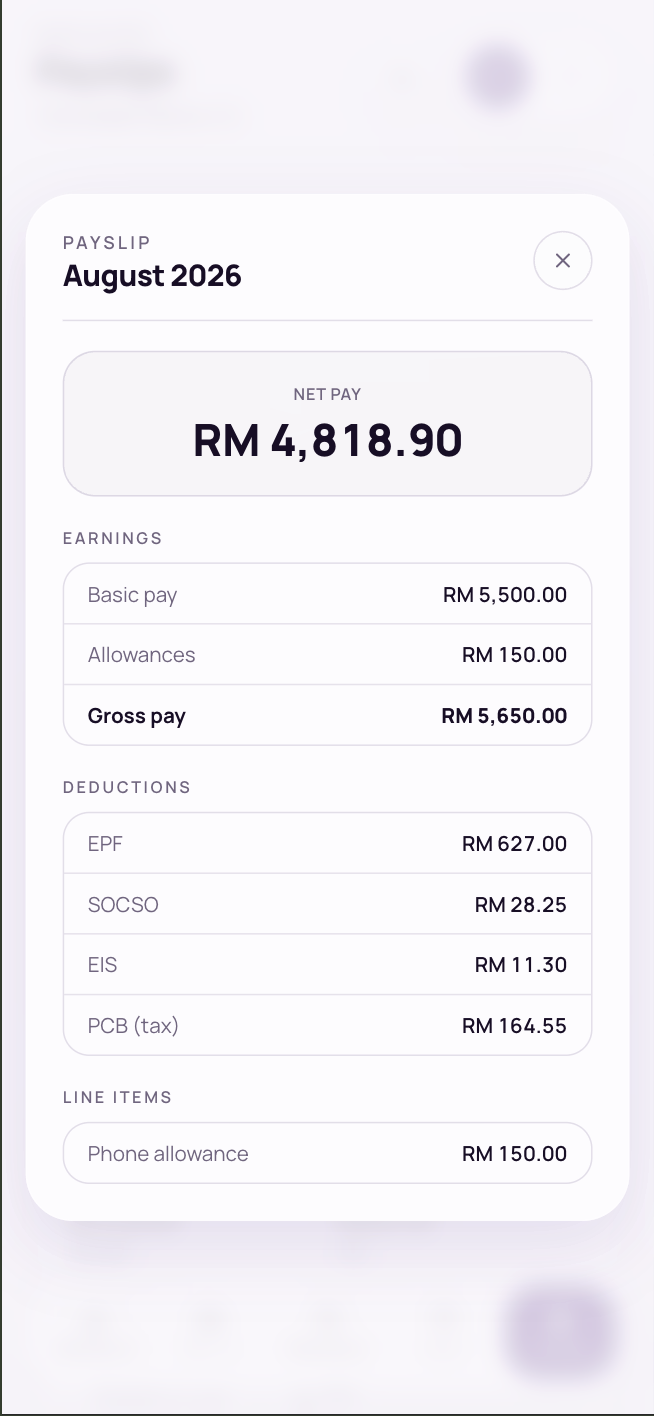
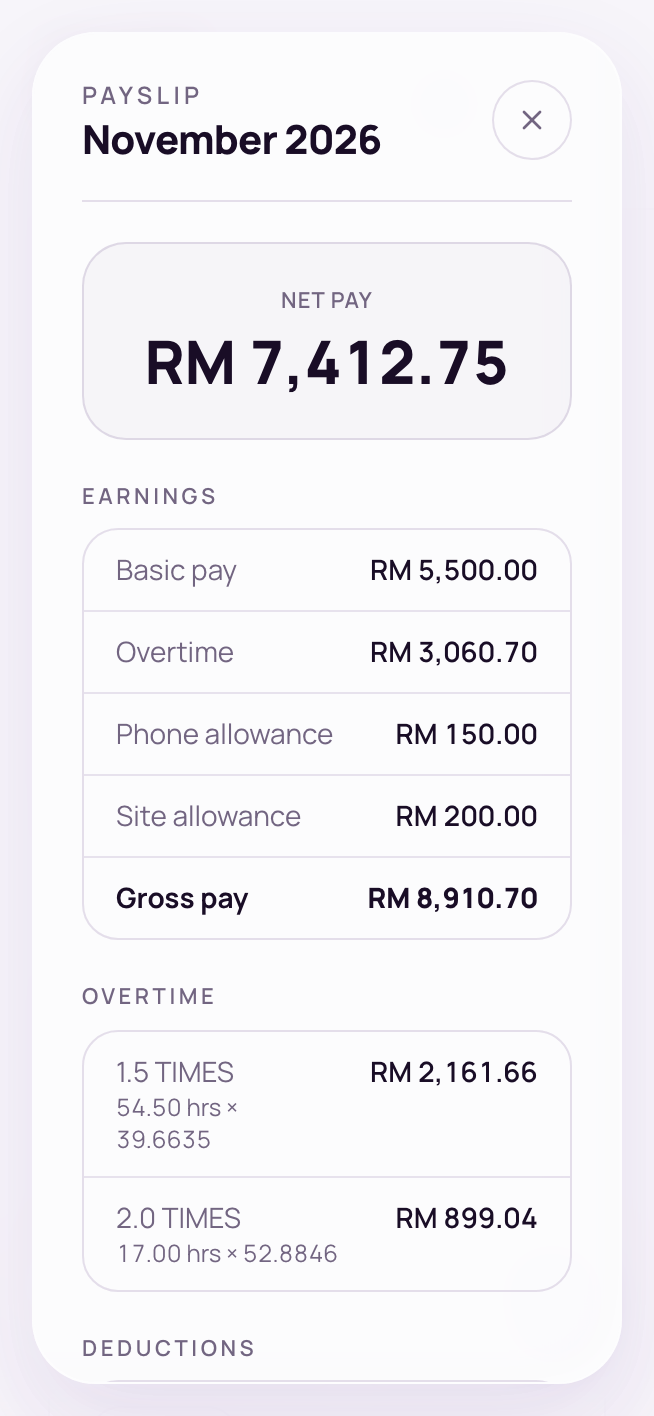
docs: What's new, API docs and user guide for the payslip overtime table
- What's new: overtime table, deductions by name, imported-month totals,
  self-paid TP1 zakat.
- API docs: PayslipDto's overtimeRows, earningLines, deductionLines and
  notInPayLines on run detail and GET /payslips/{id}.
- User guide: payslip breakdown (overtime rows, named deductions, Not paid in
  cash), the Display name on one-off rows; payslip-breakdown shots retaken on
  the local demo data, plus a new deductions shot.
- Bookmarks moved to 6c7e1df.

diff --git a/api-docs/payroll.html b/api-docs/payroll.html
@@ -591,6 +591,10 @@
               <tr><td><code>totalCostToEmployer</code></td><td>decimal</td><td>Gross pay plus the employer EPF, SOCSO and EIS and HRDF, <strong>less any deduction the company keeps</strong> &mdash; the <code>deduct_loan_repayment</code> and <code>deduct_miscellaneous</code> categories (a loan or debt recovered from pay never leaves the company). Deductions passed on to someone else (PCB, CP38, zakat) stay in the cost. PCB the company pays for the employee (<code>pcbBorneByEmployer</code>) is added to it. Imported (YTD) payslips follow the same rule.</td></tr>
               <tr><td><code>statutoryWarnings</code></td><td>string[]</td><td></td></tr>
               <tr><td><code>lineItems</code></td><td>array</td><td><code>{ id, kind, label, amount, category, pcbTaxableAmount, claimId, subjectToEpf, subjectToSocso, subjectToEis, subjectToPcb }</code> each. A line settling unpaid leave from an earlier month has its month and days in the <code>label</code>; see <a href="payroll-runs.html#generate">Generate</a>.</td></tr>
+              <tr><td><code>overtimeRows</code></td><td>object[]</td><td>The payslip's Overtime table, one row per multiplier, ascending: <code>{ "label": string, "multiplier": decimal, "rate": decimal, "hours": decimal, "amount": decimal }</code>. <code>label</code> is display text such as <code>"1.5 TIMES"</code>; <code>rate</code> is the pay for one hour at that multiplier, to <strong>4</strong> decimal places (not 2); built-in and custom types paying the same multiplier are merged. The rows add up to <code>otPay</code> (a sen or two of rounding is put on the largest row). <strong>Empty</strong> when there is no overtime, or the payslip was generated before overtime rates were kept, or it was imported &mdash; fall back to <code>otPay</code> and <code>otCustom</code>.</td></tr>
+              <tr><td><code>earningLines</code></td><td>object[] or null</td><td>The named lines under Earnings after basic pay and overtime: <code>{ "label": string, "amount": decimal }</code>. Reimbursements and cash allowances are positive; deductions that reduce gross (unpaid leave, an advance) are <strong>negative</strong>. Benefits in kind are not here. <code>null</code> when basic pay + overtime + these lines do not add up to <code>grossPay</code> (e.g. an imported payslip) &mdash; show the totals instead.</td></tr>
+              <tr><td><code>deductionLines</code></td><td>object[] or null</td><td>The named non-statutory deductions taken from pay (loan repayment, zakat, CP38, one-off deductions), each <code>{ "label": string, "amount": decimal }</code> with a positive amount. Excludes gross-reducing deductions (in <code>earningLines</code>), cash-neutral ones (in <code>notInPayLines</code>) and Additional PCB (inside the PCB figure). An imported payslip's zakat and CP38 are appended as <code>"Zakat"</code> / <code>"CP38 arrears"</code> lines. <code>null</code> when they do not reconcile to <code>totalDeductions</code>.</td></tr>
+              <tr><td><code>notInPayLines</code></td><td>object[]</td><td>Lines shown on the payslip that are not paid in cash: benefits in kind and cash-neutral deductions such as TP1 reliefs. <code>{ "label": string, "amount": decimal }</code>; empty when none.</td></tr>
             </tbody>
           </table>
         </div>

diff --git a/api-docs/payroll-runs.html b/api-docs/payroll-runs.html
@@ -533,6 +533,10 @@ curl -X PATCH https://&lt;api-host&gt;/payroll/runs/run_123 \
             <tr><td><code>lineItems[].label</code> / <code>.amount</code> / <code>.category</code></td><td>mixed</td><td>A line settling unpaid leave from an earlier month carries its month and days in the <code>label</code> (<code>Unpaid Leave – Sep 2026 (approved late, 2 days)</code>, category <code>deduct_unpaid_leave</code>; or <code>Unpaid Leave refund – Sep 2026 (1 day)</code>, category <code>wages_arrears</code>). See <a href="#generate">Generate</a>.</td></tr>
             <tr><td><code>lineItems[].pcbTaxableAmount</code></td><td>number or null</td><td></td></tr>
             <tr><td><code>lineItems[].claimId</code></td><td>string or null</td><td>Set when the line came from an <a href="#claims">attached claim</a>.</td></tr>
+            <tr><td><code>overtimeRows</code></td><td>object[]</td><td>The payslip's Overtime table, one row per multiplier, ascending: <code>{ "label": string, "multiplier": number, "rate": number, "hours": number, "amount": number }</code>. <code>label</code> is display text such as <code>"1.5 TIMES"</code>; <code>rate</code> is the pay for one hour at that multiplier, to <strong>4</strong> decimal places (not 2); built-in and custom types paying the same multiplier are merged. The rows add up to <code>otPay</code> (a sen or two of rounding is put on the largest row). <strong>Empty</strong> when there is no overtime, or the payslip was generated before overtime rates were kept, or it was imported &mdash; fall back to <code>otPay</code> and <code>otCustom</code>.</td></tr>
+            <tr><td><code>earningLines</code></td><td>object[] or null</td><td>The named lines under Earnings after basic pay and overtime: <code>{ "label": string, "amount": number }</code>. Reimbursements and cash allowances are positive; deductions that reduce gross (unpaid leave, an advance) are <strong>negative</strong>. Benefits in kind are not here. <code>null</code> when basic pay + overtime + these lines do not add up to <code>grossPay</code> (e.g. an imported payslip) &mdash; show the totals instead.</td></tr>
+            <tr><td><code>deductionLines</code></td><td>object[] or null</td><td>The named non-statutory deductions taken from pay (loan repayment, zakat, CP38, one-off deductions), each <code>{ "label": string, "amount": number }</code> with a positive amount. Excludes gross-reducing deductions (in <code>earningLines</code>), cash-neutral ones (in <code>notInPayLines</code>) and Additional PCB (inside the PCB figure). An imported payslip's zakat and CP38 are appended as <code>"Zakat"</code> / <code>"CP38 arrears"</code> lines. <code>null</code> when they do not reconcile to <code>totalDeductions</code>.</td></tr>
+            <tr><td><code>notInPayLines</code></td><td>object[]</td><td>Lines shown on the payslip that are not paid in cash: benefits in kind and cash-neutral deductions such as TP1 reliefs. <code>{ "label": string, "amount": number }</code>; empty when none.</td></tr>
             <tr><td><code>lineItems[].subjectToEpf</code> / <code>.subjectToSocso</code> / <code>.subjectToEis</code> / <code>.subjectToPcb</code></td><td>boolean</td><td>Which wage bases this line fed, as the category defines it.</td></tr>
           </tbody>
         </table>

diff --git a/user-guide/altomatehr-employee-guide.html b/user-guide/altomatehr-employee-guide.html
@@ -7,7 +7,7 @@
   Bookmark: this page is correct as of this commit on main. The next update
   re-checks every user-visible change after it — from any branch — then
   moves it forward.
-  user-guide-covered-up-to: 35e5978
+  user-guide-covered-up-to: 6c7e1df
 -->
 <html lang="en">
 <head>
@@ -898,7 +898,15 @@
       <li><strong>Year tabs</strong> — if you have payslips in more than one year, a row of year tabs (newest first)
         sits above the list. Tap a year to see that year's payslips. With payslips in only one year there are no tabs.</li>
       <li><span class="btn-name">View breakdown</span> — earnings, deductions and every line item. Your earnings are
-        shown in full; anything your company keeps from your pay, such as a loan repayment, is listed under Deductions.</li>
+        shown in full, with allowances listed by name and one <strong>Overtime</strong> total. If you worked overtime, an
+        <strong>Overtime</strong> section below it has one row for each multiplier (for example <em>1.5 TIMES</em> and
+        <em>2.0 TIMES</em>). On a phone each row shows the hours and the rate for one hour under the multiplier
+        (for example <em>54.50 hrs × 39.6635</em>), with the amount on the right. On a wider screen it's a table with
+        <strong>Rate</strong> (pay for one hour at that multiplier), <strong>Hrs</strong> and <strong>Amount</strong> columns.
+        Anything your company keeps from your pay is listed under Deductions by name, such as Loan Repayment, Zakat or CP38.
+        Benefits in kind and tax reliefs that aren't paid to you in cash sit under <strong>Not paid in cash</strong>.
+        Payslips made before this change show only the overtime total until payroll is re-run.</li>
+      <li>The <span class="btn-name">PDF</span> shows the Overtime table with Rate, Hrs and Amount columns and named deductions.</li>
       <li>If your company pays your income tax (PCB) for you, the breakdown shows it in its own group,
         <strong>Paid by your employer</strong>, and it isn't taken off your net pay. Because tax your company pays counts as
         your income, your first payslip of the next year adds a line such as
@@ -922,7 +930,12 @@
     <figure class="shot" data-place="Payslips">
       <div class="shot-grid" data-orient="phone">
         <div class="shot-item">
-          <img src="shots/employee/payslip-breakdown.png" alt="A payslip&#x27;s breakdown: net pay, earnings and deductions" loading="lazy">
+          <img src="shots/employee/payslip-breakdown.png" alt="A payslip&#x27;s breakdown: net pay, earnings by name and the Overtime section with a row for each multiplier" loading="lazy">
+          <p class="shot-cap">Earnings and Overtime</p>
+        </div>
+        <div class="shot-item">
+          <img src="shots/employee/payslip-breakdown-deductions.png" alt="The same breakdown scrolled to Overtime and Deductions, listed by name: EPF, SOCSO, EIS, PCB, Loan Repayment, a one-off deduction and Zakat" loading="lazy">
+          <p class="shot-cap">Deductions listed by name</p>
         </div>
       </div>
       <p class="shot-cap shot-cap-main">A payslip</p>

diff --git a/user-guide/altomatehr-admin-guide.html b/user-guide/altomatehr-admin-guide.html
@@ -7,7 +7,7 @@
   Bookmark: this page is correct as of this commit on main. The next update
   re-checks every user-visible change after it — from any branch — then
   moves it forward.
-  user-guide-covered-up-to: 35e5978
+  user-guide-covered-up-to: 6c7e1df
 -->
 <html lang="en">
 <head>
@@ -1490,7 +1490,7 @@
           (with a number, e.g. <em>Add all 12</em>) to add every one in the list. Staff numbers show beside the names. Once
           there are more than five claims, a search box appears: type an employee's name, staff ID, a claim number or a
           title, and the button becomes <span class="btn-name">Add these</span> for just the claims that match. Long
-          lists scroll inside the card, so the run's Submit button stays in reach. Each added claim has a ✕ to take it off again. Unpaid leave is deducted automatically from approved
+          lists scroll inside the card, so the run's Submit button stays in reach. Each added claim has a ✕ to take it off again. When you add a one-off allowance or deduction, the <strong>Display name</strong> you type is what the employee sees on their payslip; leave it blank and the category name is shown. Payslips list deductions by name (Loan Repayment, Zakat, CP38, your one-off deductions) rather than as one <em>Other deductions</em> amount, and show an <strong>Overtime</strong> table with a row for each multiplier (rate, hours, amount); payslips made before this change show only the total until the run is re-run. Unpaid leave is deducted automatically from approved
           unpaid leave; for staff whose unpaid leave isn't in the Leave module yet, type it in — see
           <em>Unpaid days not in the Leave module</em> below. For a part-month Basic, see
           <em>Basic this month</em> below. The <strong>Needs attention</strong> tab lists anyone

diff --git a/frontend/src/features/whats-new/lib/entries.ts b/frontend/src/features/whats-new/lib/entries.ts
@@ -8,7 +8,7 @@
 //
 // Bookmark: the last commit on main these notes already cover. The next update
 // writes up everything after it — from any branch — then moves it forward.
-// whats-new-covered-up-to: 35e5978
+// whats-new-covered-up-to: 6c7e1df
 
 // A line is for everyone, or — wrapped in admins(…) — for admins and owners
 // only. Employees and supervisors never see an admins line, so it doesn't
@@ -28,6 +28,21 @@ export type WhatsNewEntry = {
 };
 
 export const WHATS_NEW: WhatsNewEntry[] = [
+  {
+    date: "2026-11-05",
+    new: [
+      "Payslips from payroll runs and re-runs now have an Overtime table, with the hours and pay for each rate. Older payslips keep one Overtime line.",
+    ],
+    improved: [
+      "Payslips list each allowance, claim and deduction by its own name, such as Loan repayment, Zakat or CP38, instead of one \"Other deductions\" total.",
+      "In the employee portal, benefits in kind and TP1 reliefs are now listed under Not paid in cash on the payslip.",
+    ],
+    fixed: [
+      "On payslip PDFs from imported months, Total deductions now includes zakat and CP38, so the figures add up to net pay.",
+      "Zakat you paid yourself (claimed on TP1) no longer shows as a deduction from your pay on payslips. In the employee portal it's listed under Not paid in cash instead. Net pay is unchanged.",
+      admins("When you transfer an employee or add them to another company, their nickname now comes with them, so they can still be found by it."),
+    ],
+  },
   {
     date: "2026-11-03",
     new: [

diff --git a/api-docs/index.html b/api-docs/index.html
@@ -25,7 +25,7 @@
   Bookmark: the pages that exist are correct as of this commit on main. The
   next update re-checks every controller/DTO changed after it — from any
   branch — then moves it forward.
-  api-docs-covered-up-to: 35e5978
+  api-docs-covered-up-to: 6c7e1df
 -->
 <div class="layout">
   <nav class="sidebar" aria-label="Documentation">
